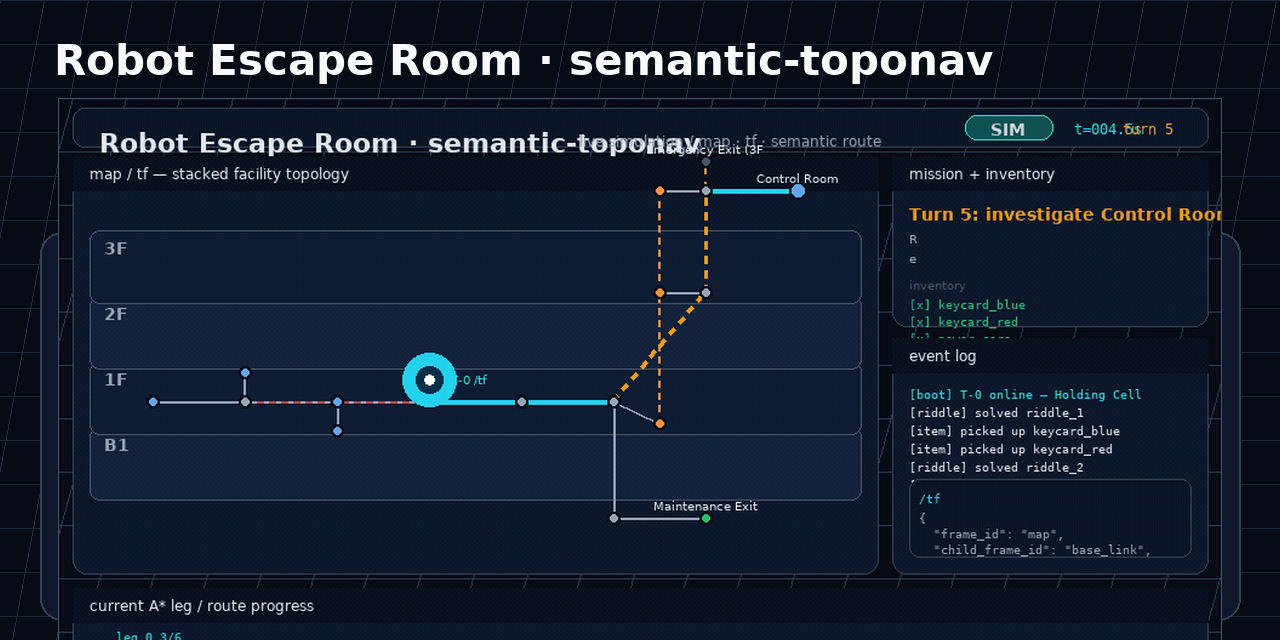
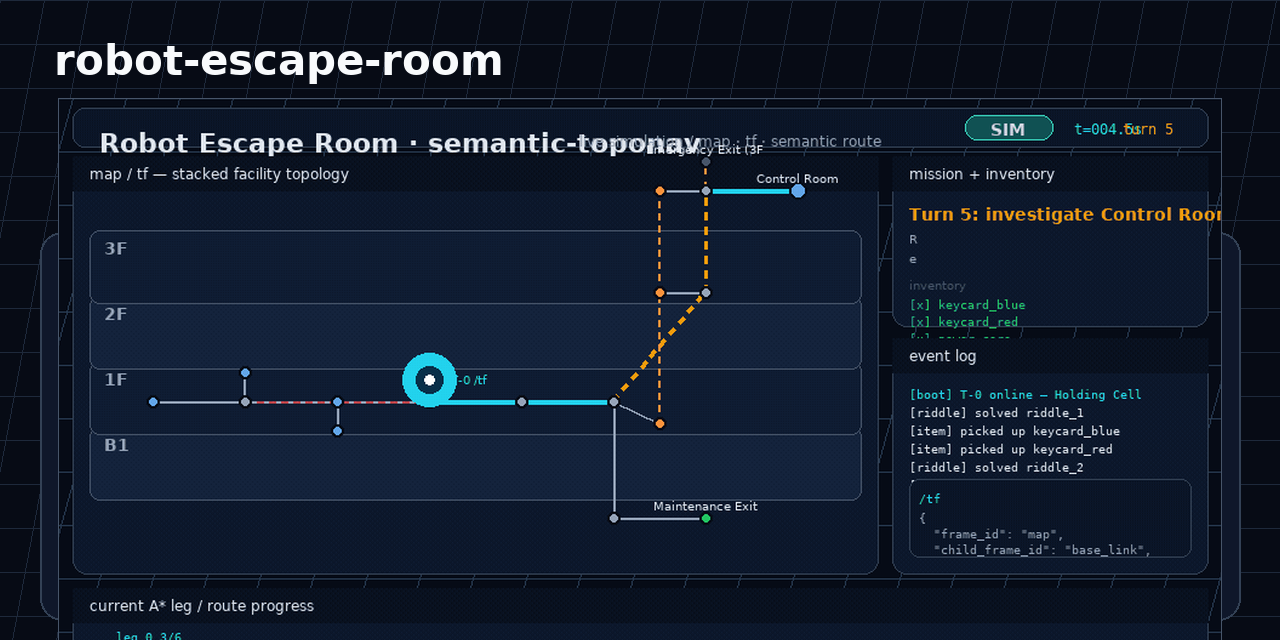
chore: rename GitHub repo to robot-escape-room and simplify About
Point docs, schemas, and metadata at rsasaki0109/robot-escape-room and
use a one-line GitHub description. Python package/CLI stay semantic-toponav.

Changed region(s): [[0.0312, 0.0625, 0.4062, 0.125], [0.4375, 0.0625, 0.7812, 0.125]]

diff --git a/examples/record_escape_room_sim.py b/examples/record_escape_room_sim.py
@@ -296,7 +296,7 @@ def _draw_background(draw: ImageDraw.ImageDraw) -> None:
 def _draw_top_bar(draw, kf: Keyframe, t_sec: float) -> None:
     box = (12.0, 8.0, 948.0, 40.0)
     _round_rect(draw, box, 10, (10, 21, 40), (51, 65, 85), 1)
-    _text(draw, (34, 24), "Robot Escape Room · semantic-toponav", FONT_TITLE, TEXT)
+    _text(draw, (34, 24), "robot-escape-room", FONT_TITLE, TEXT)
     _text(draw, (430, 28), "live simulation / map · tf · semantic route", FONT_SM, MUTED)
     _round_rect(draw, (748, 14, 820, 34), 10, (6, 78, 59), (45, 212, 191), 1)
     _text(draw, (784, 18), "SIM", FONT_BOLD, (167, 243, 208), "ma")

diff --git a/examples/build_social_preview.py b/examples/build_social_preview.py
@@ -97,7 +97,7 @@ def main() -> None:
     for y in range(0, H, 44):
         draw.line([(0, y), (W, y)], fill=(30, 41, 59), width=1)
 
-    draw.text((54, 36), "Robot Escape Room · semantic-toponav", font=FONT_TITLE, fill=INK)
+    draw.text((54, 36), "robot-escape-room", font=FONT_TITLE, fill=INK)
     draw.text(
         (58, 98), "Every cost function, one self-solving escape game",
         font=FONT_SUB, fill=MUTED,

diff --git a/CHANGELOG.md b/CHANGELOG.md
@@ -534,8 +534,8 @@ release consolidates). Future migration notes (for v2 schema
 bumps, removed CLI flags, etc.) will appear in this section per
 the freeze policy in [`docs/schema_v1.md`](docs/schema_v1.md).
 
-[Unreleased]: https://github.com/rsasaki0109/semantic-toponav/compare/v1.0.2...HEAD
-[1.0.2]: https://github.com/rsasaki0109/semantic-toponav/compare/v1.0.1...v1.0.2
-[1.0.1]: https://github.com/rsasaki0109/semantic-toponav/compare/v1.0.0...v1.0.1
-[1.0.0]: https://github.com/rsasaki0109/semantic-toponav/compare/v0.1.0...v1.0.0
-[0.1.0]: https://github.com/rsasaki0109/semantic-toponav/releases/tag/v0.1.0
+[Unreleased]: https://github.com/rsasaki0109/robot-escape-room/compare/v1.0.2...HEAD
+[1.0.2]: https://github.com/rsasaki0109/robot-escape-room/compare/v1.0.1...v1.0.2
+[1.0.1]: https://github.com/rsasaki0109/robot-escape-room/compare/v1.0.0...v1.0.1
+[1.0.0]: https://github.com/rsasaki0109/robot-escape-room/compare/v0.1.0...v1.0.0
+[0.1.0]: https://github.com/rsasaki0109/robot-escape-room/releases/tag/v0.1.0

diff --git a/README.md b/README.md
@@ -1,6 +1,6 @@
-# Robot Escape Room · semantic-toponav
+# robot-escape-room
 
-[![test](https://github.com/rsasaki0109/semantic-toponav/actions/workflows/test.yml/badge.svg)](https://github.com/rsasaki0109/semantic-toponav/actions/workflows/test.yml)
+[![test](https://github.com/rsasaki0109/robot-escape-room/actions/workflows/test.yml/badge.svg)](https://github.com/rsasaki0109/robot-escape-room/actions/workflows/test.yml)
 [![python](https://img.shields.io/badge/python-3.10%2B-blue.svg)](https://www.python.org/downloads/)
 [![license](https://img.shields.io/badge/license-Apache--2.0-blue.svg)](LICENSE)
 

diff --git a/CONTRIBUTING.md b/CONTRIBUTING.md
@@ -23,7 +23,7 @@ issue *before* writing code — it's much cheaper to align early.
 ## Development setup
 
 ```bash
-git clone https://github.com/rsasaki0109/semantic-toponav.git
+git clone https://github.com/rsasaki0109/robot-escape-room.git
 cd semantic-toponav
 
 # Editable install with all dev/optional extras.

diff --git a/docs/tutorial.md b/docs/tutorial.md
@@ -14,7 +14,7 @@ robot to visit.
 If you haven't already:
 
 ```bash
-git clone https://github.com/rsasaki0109/semantic-toponav.git
+git clone https://github.com/rsasaki0109/robot-escape-room.git
 cd semantic-toponav
 pip install -e '.[viz,viz_web]'   # matplotlib + pyvis
 ```
